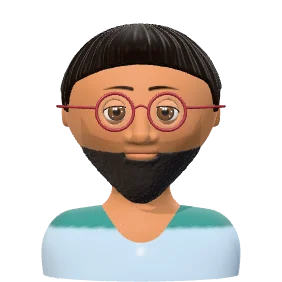
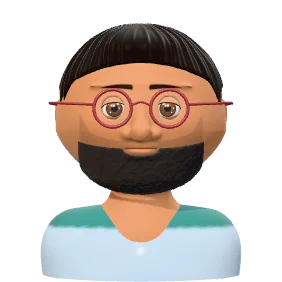
Make masculine and feminine faces read clearly
The two presentations differed only by lashes and slightly darker brows.
Now they follow the cues avatar systems like Bitmoji and Memoji use:

- Masculine: wider, squarer jaw; broad chin; a brow ridge; heavy, straight,
  lower brows; smaller, slightly hooded eyes; bigger nose and bridge;
  thinner lips close to skin color; flatter cheeks
- Feminine: narrower jaw with a small rounded chin; fuller cheeks and higher
  cheekbones; larger, open eyes with a bolder lash line; arched brows;
  smaller nose; fuller, more colored lips
- Face-shape odds follow presentation (square/oval/long vs oval/heart/round)
- Works in soft 3D, toon and flat; landing wall re-rendered
- Lab: uploads to the local receiver are queued and retried

diff --git a/packages/avatar/src/params.ts b/packages/avatar/src/params.ts
@@ -45,6 +45,8 @@ export interface AvatarParams {
     /** Cheek fullness. */
     cheeks: number;
     cheekbones: number;
+    /** 0 = smooth forehead, 1 = a pronounced brow ridge. */
+    browRidge: number;
     ears: number;
   };
   /** `y` moves the eyes up (+) or down; `openness` > 0 is rounder, < 0 more hooded. */
@@ -211,7 +213,7 @@ function validOptions(o: AvatarOptions): AvatarOptions {
 /** Face-shape archetypes. Each person varies around one of these. */
 export const FACE_SHAPE_LIST = ["oval", "round", "square", "heart", "long", "diamond"] as const satisfies readonly FaceShape[];
 
-const FACE_SHAPES: Record<FaceShape, Omit<AvatarParams["face"], "shape" | "ears">> = {
+const FACE_SHAPES: Record<FaceShape, Omit<AvatarParams["face"], "shape" | "ears" | "browRidge">> = {
   oval: { width: 0.95, crown: 1.0, height: 1.05, forehead: 1.0, jaw: 0.92, jawSquare: 0.15, chin: 1.05, chinPoint: 0.45, cheeks: 0.95, cheekbones: 1.0 },
   round: { width: 1.13, crown: 1.03, height: 0.9, forehead: 0.92, jaw: 1.12, jawSquare: 0.05, chin: 0.8, chinPoint: 0.05, cheeks: 1.3, cheekbones: 0.92 },
   square: { width: 1.07, crown: 1.0, height: 0.99, forehead: 0.98, jaw: 1.28, jawSquare: 1.0, chin: 0.92, chinPoint: 0.0, cheeks: 0.9, cheekbones: 1.02 },
@@ -228,8 +230,8 @@ function anatomy(p: AvatarParams, rng: Random, faceShape?: FaceShape) {
   const fem = p.presentation === "feminine";
   const drawn = rng.weighted<FaceShape>(
     fem
-      ? [["oval", 3], ["heart", 2.5], ["round", 2], ["diamond", 1.5], ["long", 1.5], ["square", 1]]
-      : [["oval", 3], ["square", 3], ["long", 2], ["diamond", 1.5], ["round", 1.5], ["heart", 1]],
+      ? [["oval", 3], ["heart", 3], ["round", 2.5], ["diamond", 1.5], ["long", 0.8], ["square", 0.4]]
+      : [["square", 3.5], ["oval", 3], ["long", 2], ["diamond", 1.5], ["round", 1], ["heart", 0.4]],
   );
   const shape = faceShape ?? drawn;
   const base = FACE_SHAPES[shape];
@@ -246,18 +248,34 @@ function anatomy(p: AvatarParams, rng: Random, faceShape?: FaceShape) {
     chinPoint: g(base.chinPoint, 0.12, 0, 1),
     cheeks: g(base.cheeks, 0.07, 0.75, 1.35),
     cheekbones: g(base.cheekbones, 0.07, 0.8, 1.5),
+    browRidge: g(fem ? 0.05 : 0.75, 0.15, 0, 1),
     ears: p.face.ears,
   };
+  // Sexual dimorphism on top of the shape, as avatar systems draw it (Bitmoji, Memoji):
+  // masculine = wider, squarer jaw, broad chin, brow ridge, heavier straight brows, smaller eyes, bigger nose, thinner lips;
+  // feminine = narrower, rounder jaw, softer chin, fuller cheeks, larger open eyes, arched brows, smaller nose, fuller lips.
+  const f = p.face, m = fem ? -1 : 1;
+  f.jaw = clamp(f.jaw * (fem ? 0.92 : 1.1), 0.62, 1.42);
+  f.jawSquare = clamp(f.jawSquare + 0.25 * m, 0, 1);
+  // Feminine chins are small but rounded rather than V-shaped.
+  f.chinPoint = clamp(fem ? f.chinPoint * 0.7 + 0.05 : f.chinPoint - 0.18, 0, 1);
+  f.chin = clamp(f.chin + 0.07 * m, 0.7, 1.45);
+  f.height = clamp(f.height + 0.03 * m, 0.84, 1.28);
+  f.cheeks = clamp(f.cheeks - 0.09 * m, 0.72, 1.4);
+  f.cheekbones = clamp(f.cheekbones - 0.06 * m, 0.78, 1.52);
+  p.brows.thickness = clamp(p.brows.thickness * (fem ? 0.78 : 1.3), 0.5, 1.9);
+  p.brows.arch = clamp(p.brows.arch * (fem ? 1.3 : 0.55), 0.2, 2);
   // Stretch the existing variation in eyes, nose and mouth, and add placement.
   const widen = (v: number, mean: number, k: number, lo: number, hi: number) => clamp(mean + (v - mean) * k, lo, hi);
-  p.eyes.size = widen(p.eyes.size, fem ? 1.04 : 0.98, 1.8, 0.82, 1.24);
+  p.eyes.size = widen(p.eyes.size, fem ? 1.04 : 0.98, 1.8, 0.82, 1.24) * (fem ? 1.08 : 0.93);
   p.eyes.spacing = widen(p.eyes.spacing, 1, 1.7, 0.86, 1.15);
   p.eyes.y = g(0, 0.025, -0.06, 0.06);
-  p.eyes.openness = g(0, 0.4, -1, 1);
-  p.nose.size = widen(p.nose.size, 1, 1.3, 0.72, 1.4);
-  p.nose.width = widen(p.nose.width, 1, 1.3, 0.75, 1.45);
+  p.eyes.openness = clamp(g(0, 0.35, -1, 1) + (fem ? 0.3 : -0.25), -1, 1);
+  p.nose.size = widen(p.nose.size, 1, 1.3, 0.72, 1.4) * (fem ? 0.87 : 1.12);
+  p.nose.width = widen(p.nose.width, 1, 1.3, 0.75, 1.45) * (fem ? 0.9 : 1.08);
   p.nose.length = g(1, 0.09, 0.8, 1.25);
-  p.nose.bridge = g(fem ? 0.95 : 1.05, 0.15, 0.6, 1.4);
+  p.nose.bridge = g(fem ? 0.88 : 1.15, 0.15, 0.6, 1.5);
+  p.mouth.lips = clamp(p.mouth.lips * (fem ? 1.25 : 0.78), 0.6, 1.7);
   p.mouth.width = widen(p.mouth.width, 1, 1.4, 0.8, 1.25);
 }
 
@@ -312,7 +330,8 @@ export function generateAvatar(seed: string, rawOptions: AvatarOptions = {}): Av
   let clothB = style.pick(CLOTH_COLORS);
   if (clothB === clothA) clothB = CLOTH_COLORS[(CLOTH_COLORS.indexOf(clothA) + 3) % CLOTH_COLORS.length]!;
 
-  const lipBase = blend(skin, fem ? "#b5485a" : "#8e4a48", fem ? 0.45 : 0.3);
+  // Feminine lips carry more color; masculine lips stay close to the skin.
+  const lipBase = blend(skin, fem ? "#c0405a" : "#8e4a48", fem ? 0.58 : 0.22);
 
   const params: AvatarParams = {
     seed,
@@ -322,7 +341,7 @@ export function generateAvatar(seed: string, rawOptions: AvatarOptions = {}): Av
     skinDepth,
     face: {
       shape: "oval",
-      crown: 1, height: 1, forehead: 1, jawSquare: 0, chinPoint: 0, cheekbones: 1,
+      crown: 1, height: 1, forehead: 1, jawSquare: 0, chinPoint: 0, cheekbones: 1, browRidge: 0,
       width: clamp(shape.gaussian(1, 0.035), 0.92, 1.08),
       jaw: clamp(shape.gaussian(fem ? 0.95 : 1.06, 0.05), 0.82, 1.18),
       chin: clamp(shape.gaussian(1, 0.08), 0.8, 1.2),

diff --git a/apps/web/src/lab.ts b/apps/web/src/lab.ts
@@ -26,6 +26,21 @@ const ctx = sheet.getContext("2d")!;
 document.body.append(sheet);
 
 const factory = new AvatarFactory();
+
+/** POST to the local receiver one file at a time, retrying, so bursts of exports don't drop files. */
+let queue = Promise.resolve();
+const upload = (name: string, body: string) =>
+  (queue = queue.then(async () => {
+    for (let attempt = 0; attempt < 4; attempt++) {
+      try {
+        await fetch(`http://localhost:5199/?name=${encodeURIComponent(name)}`, { method: "POST", body });
+        return;
+      } catch {
+        await new Promise((r) => setTimeout(r, 300 * (attempt + 1)));
+      }
+    }
+    console.warn(`lab: could not upload ${name}`);
+  }));
 const t0 = performance.now();
 await Promise.all(
   seeds.map(async (seed, i) => {
@@ -43,7 +58,7 @@ await Promise.all(
       const dir = q.get("export");
       if (dir) {
         const webp = snapshotAvatar(avatar, { size, framing, type: "image/webp", quality: 0.86, transparent: q.has("transparent") });
-        await fetch(`http://localhost:5199/?name=${encodeURIComponent(`${dir}/${seed}.webp`)}`, { method: "POST", body: webp });
+        await upload(`${dir}/${seed}.webp`, webp);
       }
       disposeAvatar(avatar);
     }
@@ -62,4 +77,4 @@ const info = { total: Math.round(performance.now() - t0) };
 document.title = "done";
 (window as unknown as { labInfo: unknown }).labInfo = info;
 const post = q.get("post");
-if (post) await fetch(`http://localhost:5199/?name=${encodeURIComponent(post)}`, { method: "POST", body: sheet.toDataURL("image/jpeg", 0.88) });
+if (post) await upload(post, sheet.toDataURL("image/jpeg", 0.88));

diff --git a/packages/avatar/src/head.ts b/packages/avatar/src/head.ts
@@ -76,7 +76,9 @@ export function buildRig(p: AvatarParams, style: AvatarStyle = "soft"): Rig {
   const ex = (toon ? 0.36 : 0.335) * p.eyes.spacing * fw;
   const ey = (toon ? 0.0 : 0.02) + p.eyes.y;
   const ez = surfaceZ(face, ex, ey) - 0.62 * r;
-  const browY = ey + r + 0.13;
+  const browY = ey + r + 0.13 - 0.02 * p.face.browRidge;
+  // The brow ridge sits on the face above the eyes; measure where.
+  const ridgeZ = surfaceZ(face, 0.3 * fw, browY + 0.02) - 0.09;
   const nl = p.nose.length;
   const my = toY(-0.53 - 0.06 * (nl - 1));
   const mz = surfaceZ(face, 0, my);
@@ -99,9 +101,12 @@ export function buildRig(p: AvatarParams, style: AvatarStyle = "soft"): Rig {
   const neckR = (masc ? 0.4 : 0.35) * (toon ? 0.86 : 1);
   const shoulderW = (masc ? 0.98 : 0.84) * (toon ? 0.9 : 1);
 
+  const ridge = p.face.browRidge;
   const head: SDF = (x, y, z) => {
     let d = face(x, y, z);
     const ax = Math.abs(x);
+    // Brow ridge: a soft shelf above the eyes (mostly masculine faces).
+    if (ridge > 0.1 && z > 0.2 && Math.abs(y - browY) < 0.3) d = smin(d, ellipsoid(x, y - browY - 0.03, z - ridgeZ, 0.58 * fw, 0.075, 0.13) + 0.06 * (1 - ridge), 0.09);
     // Nose: bridge-to-tip cone plus nostril wings.
     if (z > 0.3 && y < ey + 0.25 && y > tipY - 0.3 && ax < 0.35) {
       let n = capsule(x, y, z, 0, ey, nzTop, 0, tipY + 0.03 * (ns - 1), nzTip - 0.05, 0.045, 0.085 * nw * ns);

diff --git a/packages/avatar/test/params.test.ts b/packages/avatar/test/params.test.ts
@@ -83,3 +83,18 @@ test("face shapes: varied by seed, settable, and actually different geometry", a
   // A round face is clearly wider at the mouth than a long one.
   assert.ok(width("round") > width("long") * 1.12, `${width("round")} vs ${width("long")}`);
 });
+
+test("masculine and feminine faces differ the way avatar systems draw them", () => {
+  const avg = (presentation: "feminine" | "masculine", f: (p: ReturnType<typeof generateAvatar>) => number) => {
+    let sum = 0;
+    for (let i = 0; i < 200; i++) sum += f(generateAvatar(`dimorph-${i}`, { presentation }));
+    return sum / 200;
+  };
+  const ratio = (f: (p: ReturnType<typeof generateAvatar>) => number) => avg("masculine", f) / avg("feminine", f);
+  assert.ok(ratio((p) => p.face.jaw) > 1.15, "wider jaw");
+  assert.ok(avg("masculine", (p) => p.face.browRidge) > 0.5 && avg("feminine", (p) => p.face.browRidge) < 0.2, "brow ridge");
+  assert.ok(ratio((p) => p.brows.thickness) > 1.4, "heavier brows");
+  assert.ok(ratio((p) => p.eyes.size) < 0.92, "smaller eyes");
+  assert.ok(ratio((p) => p.nose.size) > 1.2, "bigger nose");
+  assert.ok(ratio((p) => p.mouth.lips) < 0.75, "thinner lips");
+});

diff --git a/packages/avatar/src/build.ts b/packages/avatar/src/build.ts
@@ -135,10 +135,11 @@ function buildEye(p: AvatarParams, rig: Rig, side: 1 | -1, eyeMat: THREE.Materia
   }
   if (p.eyes.lashes) {
     const end = pts[pts.length - 1]!;
-    pts.push(end.clone().add(new THREE.Vector3(r * 0.22, r * 0.16, -r * 0.08)));
+    // A small winged flick at the outer corner.
+    pts.push(end.clone().add(new THREE.Vector3(r * 0.3, r * 0.2, -r * 0.08)));
   }
   const lash = new THREE.Mesh(
-    new THREE.TubeGeometry(new THREE.CatmullRomCurve3(pts), 48, p.eyes.lashes ? r * 0.085 : r * 0.05, 8, false),
+    new THREE.TubeGeometry(new THREE.CatmullRomCurve3(pts), 48, p.eyes.lashes ? r * 0.1 : r * 0.045, 8, false),
     new THREE.MeshStandardMaterial({ color: 0x15100e, roughness: 0.5 }),
   );
   upper.add(lash);
